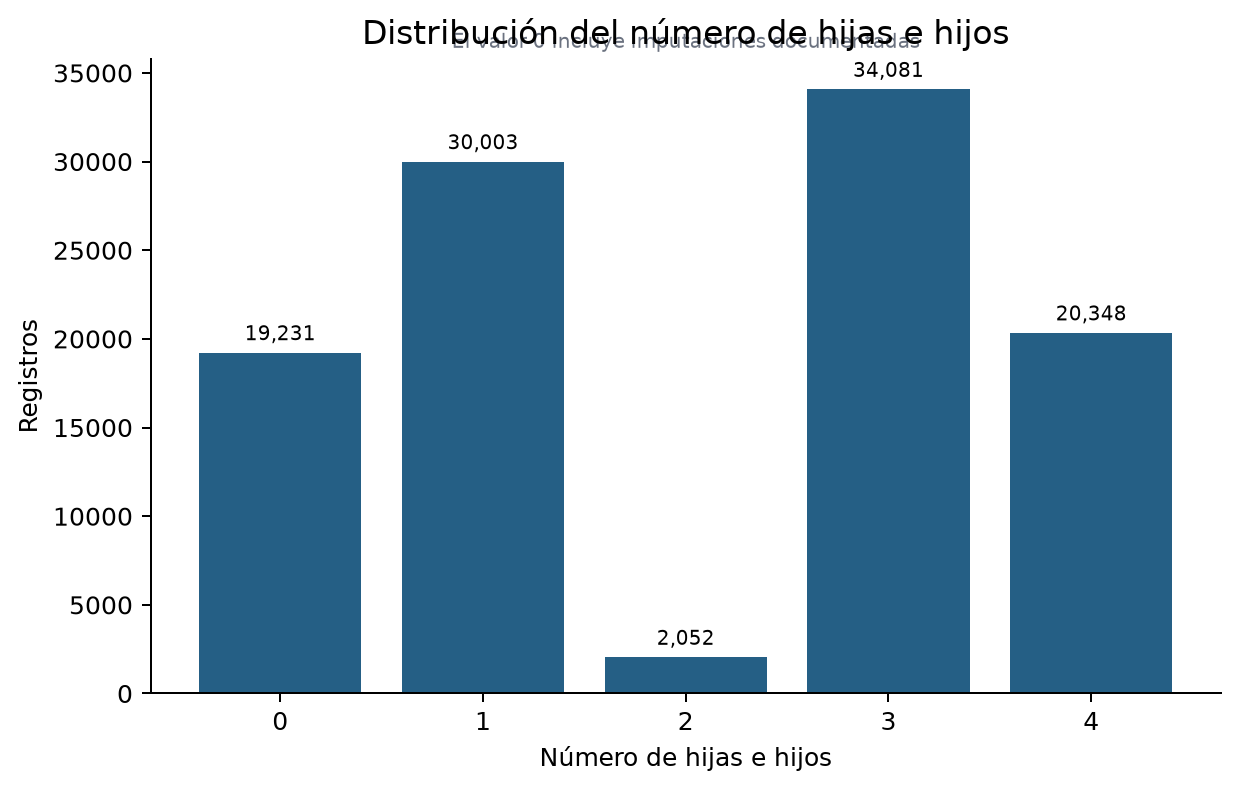
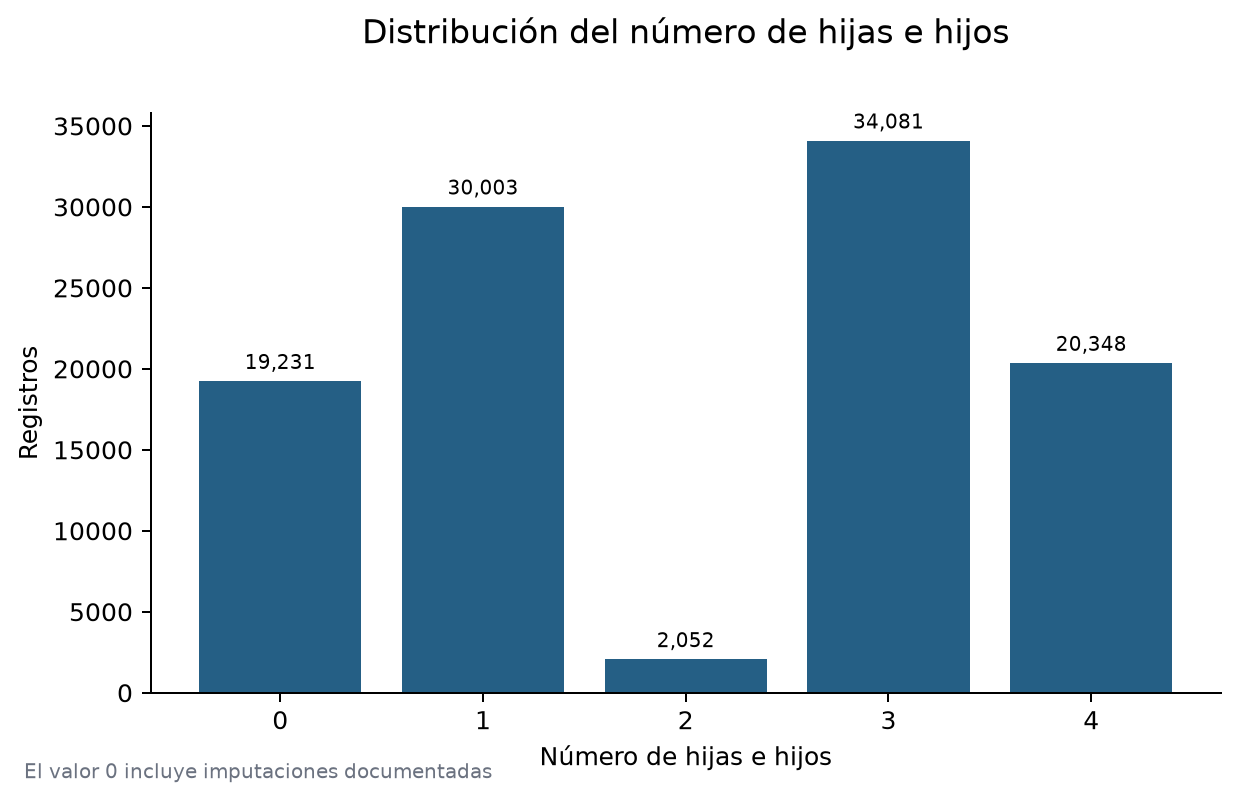
Ajuste en la posición de la leyenda de la figura 3

diff --git a/src/visualization/eda.py b/src/visualization/eda.py
@@ -87,20 +87,20 @@ def grafica_hijos(df: pl.DataFrame) -> None:
         conteos["len"].to_list(),
         color=COLOR_AZUL,
     )
-    ax.set_title("Distribución del número de hijas e hijos")
+    ax.set_title("Distribución del número de hijas e hijos", pad=28)
     ax.set_xlabel("Número de hijas e hijos")
     ax.set_ylabel("Registros")
     ax.bar_label(barras, labels=[f"{v:,}" for v in conteos["len"]], padding=3, fontsize=8)
-    ax.text(
-        0.5,
-        1.01,
+    fig.text(
+        0.40,
+        0.02,
         "El valor 0 incluye imputaciones documentadas",
-        transform=ax.transAxes,
-        ha="center",
+        ha="right",
         va="bottom",
         color=COLOR_GRIS,
         fontsize=8,
     )
+    fig.subplots_adjust(top=0.85, bottom=0.12)
     guardar(fig, "03_distribucion_hijos.png")
 
 
